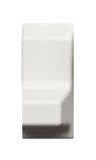
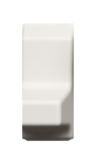
fix(panel): drawbar cap measured from the owner's cap photos

Changed region(s): [[0.2188, 0.8438, 0.75, 0.9062], [0.2188, 0.25, 0.25, 0.375], [0.2188, 0.4062, 0.25, 0.4375]]

diff --git a/assets/blender/parts_cap.py b/assets/blender/parts_cap.py
@@ -10,20 +10,26 @@ from __future__ import annotations
 import bpy
 from proof_geom import box, loft
 
-# Shape EMPIRICAL from the owner's photo of a loose cap (2026-11-13): one part, a tall
-# near-square rear block with upright walls, an upright front face filleted into a long
-# full-width nose about half its height, the nose front chamfered down, and a thin lip
-# along the base behind the block. Plan size EMPIRICAL from the reference (100 x 231 px =
-# 0.78 x 1.79 u at the base). Black and white caps share this geometry.
+# Shape EMPIRICAL, measured on the owner's photo of a loose cap (2026-11-13, oblique view,
+# lengths scaled by the 113 px cap width at the block top, verticals by the block's front
+# corner edge; about +/-15 % from perspective). One part: base lip behind a tall rear block,
+# block front face sloping forward onto a long full-width nose (rounded join), nose top
+# chamfered at the front onto an upright front wall. Plan size EMPIRICAL from the reference
+# (100 x 231 px = 0.78 x 1.79 u at the base). Black and white caps share this geometry.
 CAP_W = 0.80
 CAP_BACK, CAP_FRONT = 0.90, -0.89
-CAP_HT, CAP_HN = 0.70, 0.17  # EMPIRICAL: owner's side-view sketch (2026-11-13), block
-# 108 px and nose 26 px over a 277 px cap length
-BLOCK_FRONT = 0.20  # EMPIRICAL (loose-cap photo): block is about 0.4 of the cap length
-NOSE_TOP_FRONT = -0.52  # EMPIRICAL (sketch): flat nose top ends here, then curves down
-NOSE_FRONT_H = 0.03  # EMPIRICAL (sketch): the nose runs out almost to a point
-LIP_L, LIP_H = 0.06, 0.10  # EMPIRICAL (loose-cap photo): base lip behind the block
-CAP_TAPER = 0.05  # EMPIRICAL: walls nearly upright (draft only)
+# Profile EMPIRICAL from the owner's side photo (2026-11-13, white cap, 342 px base length =
+# 1.79 u, 0.0052 u/px, about +/-10 % from the low camera); width taper and foot flare from
+# the owner's rear photo of three caps.
+CAP_HT, CAP_HN = 1.00, 0.47  # block 215 px, nose 100 px tall
+BLOCK_TOP_FRONT = 0.25  # block top front edge at 217 px from the nose tip
+BLOCK_FRONT = 0.04  # block front face meets the nose at 177 px: steep forward slope
+NOSE_TOP_FRONT = -0.66  # flat nose top ends at 44 px, then the chamfer
+NOSE_FRONT_H = 0.10  # short upright nose front wall under the chamfer
+LIP_L, LIP_H = 0.07, 0.20  # base step behind the block: 15 px out, 45 px tall
+CAP_TAPER = 0.20  # rear photo: block top about 0.8 of its base width
+FLARE_H = 0.14  # rear photo: walls flare out over the bottom ~0.14 u (concave foot)
+STEP = 0.04  # ASSUMED: run of the near-vertical back wall, so the bevel is not clamped
 CAP_BEVEL = 0.12  # EMPIRICAL: reference cap corners read about 8 px rounded at 2x
 CAP_LIFT = 0.03  # cap floats above the plate so the slot shows under it
 FOOT_WALL = 0.06  # ASSUMED: upright strip at the foot of every wall
@@ -41,34 +47,37 @@ def _section(y, z, top_x, left=-CAP_W / 2):
     hb, zl = CAP_W / 2, CAP_LIFT
     v = min(FOOT_WALL, z * 0.5)  # short upright wall: every bottom edge is 90 deg, so the
     # bevel shrinks the outline the same everywhere (sloped walls would bevel deeper)
+    f = min(FLARE_H, z * 0.6)  # flared foot: steep inward kink, then the tapered wall
+    fx = hb - (hb - top_x[1]) * 0.5 * f / max(z, 1e-6) - 0.03 * (f / FLARE_H)
     return [
         (left, y, zl),
         (hb, y, zl),
         (hb, y, zl + v),
+        (fx, y, zl + f),
         (top_x[1], y, zl + z),
         (top_x[0], y, zl + z),
+        (-fx, y, zl + f),
         (left, y, zl + v),
     ]
 
 
 def fader_cap(m, key):
-    """Drawbar cap, one loft from back to front: base lip, tall upright rear block, step
-    down onto the low full-width nose (the bevel makes the fillet), curved nose front."""
-    ht, hn, e = CAP_HT, CAP_HN, 0.005
+    """Drawbar cap, one loft from back to front: base lip, tall rear block whose front face
+    slopes onto the full-width nose, chamfered nose top, upright front wall (the end cap of
+    the loft). Smooth shading plus an unclamped bevel round every edge (photo)."""
+    ht, hn = CAP_HT, CAP_HN
     top = (-CAP_W / 2 * (1 - CAP_TAPER), CAP_W / 2 * (1 - CAP_TAPER))
     secs = [
-        (CAP_BACK, LIP_H, top),
-        (CAP_BACK - LIP_L, LIP_H, top),
-        (CAP_BACK - LIP_L - e, ht, top),
-        (BLOCK_FRONT + 0.06, ht, top),
-        (BLOCK_FRONT, ht - 0.06, top),  # rounded top front edge (sketch)
-        (BLOCK_FRONT - e, hn, top),
-        (NOSE_TOP_FRONT, hn, top),
-        (-0.72, 0.10, top),  # EMPIRICAL (sketch): curved nose front
-        (CAP_FRONT, NOSE_FRONT_H, top),
+        (CAP_BACK, LIP_H),
+        (CAP_BACK - LIP_L, LIP_H),
+        (CAP_BACK - LIP_L - STEP, ht),
+        (BLOCK_TOP_FRONT, ht),
+        (BLOCK_FRONT, hn),
+        (NOSE_TOP_FRONT, hn),
+        (CAP_FRONT, NOSE_FRONT_H),
     ]
-    rings = [_section(y, z, tx) for y, z, tx in secs]
-    return [loft("cap_body", rings, m[key], smooth=False, bevel=CAP_BEVEL, segments=8)]
+    rings = [_section(y, z, top) for y, z in secs]
+    return [loft("cap_body", rings, m[key], smooth=True, bevel=CAP_BEVEL, segments=8)]
 
 
 def layer_cap(m, key):
